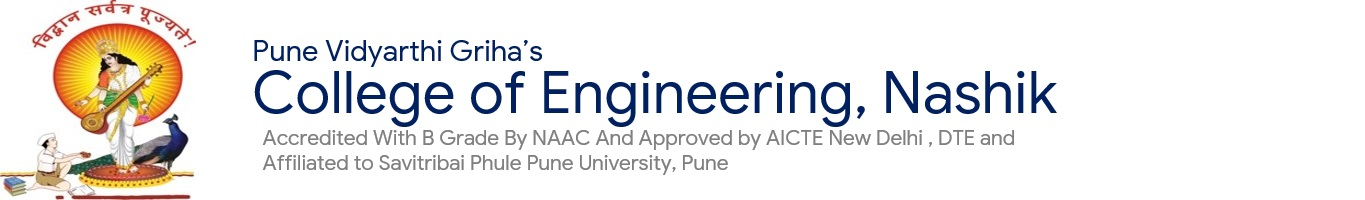
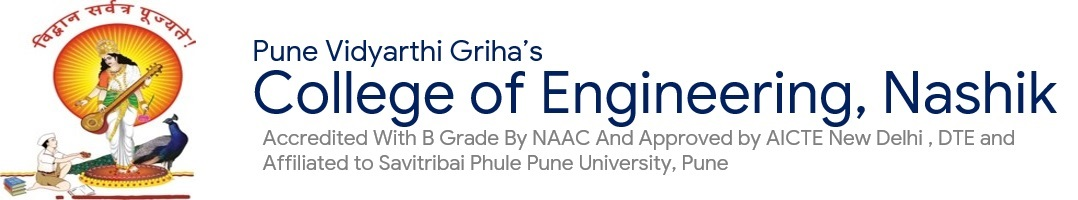
Fixed: Navigation bar error

Changed region(s): [[0.0, 0.0, 0.9796, 1.0]]

diff --git a/placement.html b/placement.html
@@ -13,30 +13,26 @@
         <script src="js/jquery.js"></script>
         <script src="js/bootstrap.min.js"></script>
 </head>
-<body style="padding-top: 50px;">
+<body>
        
-    <div class="navbar navbar-fixed-top " style="background-color:white">
-        <div class="container">
-            <div class="navbar-header">
-                <button type="button" class="navbar-toggle" data-toggle="collapse" data-target="#myNavbar">
-                    <span class="icon-bar"></span>
-                    <span class="icon-bar"></span>
-                    <span class="icon-bar"></span>                        
-                </button>
-                
-                <a class="navbar-brand" href="index.html"><img class="collegelogo"src="collegeheader.jpg" width="400" height="30"></a>
-            </div>
-            <div class="collapse navbar-collapse" id="myNavbar">
-                <ul class="nav navbar-nav navbar-right">
-                    <li><a href="index.html"><span class="glyphicon glyphicon-home"></span> Home</a></li>
-                    <li><a href="aboutus.html"><span class="glyphicon glyphicon-user"></span> About us</a></li>
-                    <li><a href="gallery.html"><span class="glyphicon glyphicon-picture"></span> Gallery</a></li>
-                    <li><a href="placement.html"><span class="glyphicon glyphicon-list-alt"></span> Placement</a></li>
-                    <li><a href="login.html"><span class="glyphicon glyphicon-log-in"></span> Login</a></li>
-                </ul>
-            </div>
-        </div>
-        </div>
+  <br>
+  <div class="navbar navbar-fixed-top " style="background-color:white ">
+          <div class="navbar-header">
+              <a class="navbar-brand" href="index.html"><img class="collegelogo"src="collegeheader.jpg" width="300" height="30"></a>
+              <button type="button" style="color:#1A237E ; border-color: #1A237E ;height:fit-content; "class="navbar-toggle glyphicon glyphicon-menu-hamburger" data-toggle="collapse" data-target="#myNavbar">                    
+              </button> 
+          </div>
+          <div class="collapse navbar-collapse" id="myNavbar">
+              <ul class="nav navbar-nav navbar-right">
+                  <li><a href="index.html"><span class="glyphicon glyphicon-home"></span> Home</a></li>
+                  <li><a href="aboutus.html"><span class="glyphicon glyphicon-user"></span> About us</a></li>
+                  <li><a href="gallery.html"><span class="glyphicon glyphicon-picture"></span> Gallery</a></li>
+                  <li><a href="placement.html"><span class="glyphicon glyphicon-list-alt"></span> Placement</a></li>
+                  <li><a href="login.html"><span class="glyphicon glyphicon-log-in"></span> Login</a></li>
+              </ul>
+          </div>
+      </div>
+     
 
    
    <!---------------------------------Body Goes here------------------------>

diff --git a/login.html b/login.html
@@ -11,28 +11,24 @@
     </head>
 
     <body>
-        <div class="navbar  navbar-fixed-top">
-            <div class="container">
-                <div class="navbar-header">
-                    <button type="button" class="navbar-toggle" data-toggle="collapse" data-target="#myNavbar">
-                        <span class="icon-bar"></span>
-                        <span class="icon-bar"></span>
-                        <span class="icon-bar"></span>                        
-                    </button>
-                    
-                    <a class="navbar-brand" href="index.html"><img src="collegeheader.jpg" width="400" height="40"></a>
-                </div>
-                <div class="collapse navbar-collapse" id="myNavbar">
-                    <ul class="nav navbar-nav navbar-right">
-                        <li><a href="index.html"><span class="glyphicon glyphicon-home"></span> Home</a></li>
-                        <li><a href="aboutus.html"><span class="glyphicon glyphicon-user"></span> About us</a></li>
-                        <li><a href="gallery.html"><span class="glyphicon glyphicon-picture"></span> Gallery</a></li>
-                        <li><a href="placement.html"><span class="glyphicon glyphicon-list-alt"></span> Placement</a></li>
-                        <li><a href="login.html"><span class="glyphicon glyphicon-log-in"></span> Login</a></li>
-                    </ul>
-                </div>
+        <br>
+    <div class="navbar navbar-fixed-top " style="background-color:white ">
+            <div class="navbar-header">
+                <a class="navbar-brand" href="index.html"><img class="collegelogo"src="collegeheader.jpg" width="300" height="30"></a>
+                <button type="button" style="color:#1A237E ; border-color: #1A237E ;height:fit-content; "class="navbar-toggle glyphicon glyphicon-menu-hamburger" data-toggle="collapse" data-target="#myNavbar">                    
+                </button> 
             </div>
+            <div class="collapse navbar-collapse" id="myNavbar">
+                <ul class="nav navbar-nav navbar-right">
+                    <li><a href="index.html"><span class="glyphicon glyphicon-home"></span> Home</a></li>
+                    <li><a href="aboutus.html"><span class="glyphicon glyphicon-user"></span> About us</a></li>
+                    <li><a href="gallery.html"><span class="glyphicon glyphicon-picture"></span> Gallery</a></li>
+                    <li><a href="placement.html"><span class="glyphicon glyphicon-list-alt"></span> Placement</a></li>
+                    <li><a href="login.html"><span class="glyphicon glyphicon-log-in"></span> Login</a></li>
+                </ul>
             </div>
+        </div>
+       
             <br><br><br><br>
         <div id="content">
             <div class="container-fluid decor_bg" id="login-panel">

diff --git a/signup.html b/signup.html
@@ -32,18 +32,23 @@
             </div>
             </div>
             <br><br>
+            
         <div class="container-fluid decor_bg" id="content">
             <div class="row">
                 <div class="container">
                     <div class="col-lg-4 col-lg-offset-4 col-md-6 col-md-offset-3">
-                        <h2>SIGN UP</h2>
+                        <div class="syllabus">
+                            <section class="banner_content">
+                             <center><div class="button_submit"><h2 class="he">SIGN UP</h2></div></center>
+                             <br>
+                        
                         <form  action="signup_script.html" method="POST">
                             <div class="form-group">
                                 <input class="form-control" placeholder="Name" name="name"  required>
                             </div>
 
                             <div class="form-group">Class:
-                                <select id="cla" name="Class">
+                                <select id="cla" name="Class" placeholder="Class">
                                     <option value="volvo">S.E.</option>
                                     <option value="saab">T.E.</option>
                                     <option value="fiat">B.E.</option>                                
@@ -70,11 +75,15 @@
                             <div class="form-group">
                                 <input  type="text" class="form-control"  placeholder="Address" name="address" required>
                             </div>
-                            <button type="submit" name="submit" class="btn">Submit</button>
+                            <br>
+                           <center><button type="submit" name="submit" class="btn">Submit</button></center> 
                         </form>
                     </div>
                 </div>
             </div>
+        </div>
+        
+        </section>
         </div>
         <footer>
             <div class="container">

diff --git a/aboutus.html b/aboutus.html
@@ -13,18 +13,13 @@
         <script src="js/jquery.js"></script>
         <script src="js/bootstrap.min.js"></script>
 </head>
-<body style="padding-top: 50px;">
-       
-    <div class="navbar navbar-fixed-top " style="background-color:white">
-        <div class="container">
+<body>
+<br>
+    <div class="navbar navbar-fixed-top " style="background-color:white ">
             <div class="navbar-header">
-                <button type="button" class="navbar-toggle" data-toggle="collapse" data-target="#myNavbar">
-                    <span class="icon-bar"></span>
-                    <span class="icon-bar"></span>
-                    <span class="icon-bar"></span>                        
-                </button>
-                
-                <a class="navbar-brand" href="index.html"><img class="collegelogo"src="collegeheader.jpg" width="400" height="30"></a>
+                <a class="navbar-brand" href="index.html"><img class="collegelogo"src="collegeheader.jpg" width="300" height="30"></a>
+                <button type="button" style="color:#1A237E ; border-color: #1A237E ;height:fit-content; "class="navbar-toggle glyphicon glyphicon-menu-hamburger" data-toggle="collapse" data-target="#myNavbar">                    
+                </button> 
             </div>
             <div class="collapse navbar-collapse" id="myNavbar">
                 <ul class="nav navbar-nav navbar-right">
@@ -36,7 +31,7 @@
                 </ul>
             </div>
         </div>
-        </div><br><br><br><br>
+       <br><br><br><br>
 
  
    <!---------------------------------Body Goes here------------------------>

diff --git a/lectures.html b/lectures.html
@@ -13,18 +13,14 @@
         <script src="js/jquery.js"></script>
         <script src="js/bootstrap.min.js"></script>
 </head>
-<body style="padding-top: 50px;">
+<body>
        
-    <div class="navbar navbar-fixed-top " style="background-color:white">
-        <div class="container">
+    <br>
+    <div class="navbar navbar-fixed-top " style="background-color:white ">
             <div class="navbar-header">
-                <button type="button" class="navbar-toggle" data-toggle="collapse" data-target="#myNavbar">
-                    <span class="icon-bar"></span>
-                    <span class="icon-bar"></span>
-                    <span class="icon-bar"></span>                        
-                </button>
-                
-                <a class="navbar-brand" href="index.html"><img class="collegelogo"src="collegeheader.jpg" width="400" height="30"></a>
+                <a class="navbar-brand" href="index.html"><img class="collegelogo"src="collegeheader.jpg" width="300" height="30"></a>
+                <button type="button" style="color:#1A237E ; border-color: #1A237E ;height:fit-content; "class="navbar-toggle glyphicon glyphicon-menu-hamburger" data-toggle="collapse" data-target="#myNavbar">                    
+                </button> 
             </div>
             <div class="collapse navbar-collapse" id="myNavbar">
                 <ul class="nav navbar-nav navbar-right">
@@ -36,8 +32,7 @@
                 </ul>
             </div>
         </div>
-        </div>
-
+       
    
  
    <!---------------------------------Body Goes here------------------------>

diff --git a/index.html b/index.html
@@ -13,18 +13,13 @@
         <script src="js/jquery.js"></script>
         <script src="js/bootstrap.min.js"></script>
 </head>
-<body style="padding-top: 50px;">
-       
-    <div class="navbar navbar-fixed-top " style="background-color:white">
-        <div class="container">
+<body>
+ <br>
+    <div class="navbar navbar-fixed-top " style="background-color:white ">
             <div class="navbar-header">
-                <button type="button" class="navbar-toggle" data-toggle="collapse" data-target="#myNavbar">
-                    <span class="icon-bar"></span>
-                    <span class="icon-bar"></span>
-                    <span class="icon-bar"></span>                        
-                </button>
-                
-                <a class="navbar-brand" href="index.html"><img class="collegelogo"src="collegeheader.jpg" width="400" height="30"></a>
+                <a class="navbar-brand" href="index.html"><img class="collegelogo"src="collegeheader.jpg" width="300" height="30"></a>
+                <button type="button" style="color:#1A237E ; border-color: #1A237E ;height:fit-content; "class="navbar-toggle glyphicon glyphicon-menu-hamburger" data-toggle="collapse" data-target="#myNavbar">                    
+                </button> 
             </div>
             <div class="collapse navbar-collapse" id="myNavbar">
                 <ul class="nav navbar-nav navbar-right">
@@ -36,7 +31,7 @@
                 </ul>
             </div>
         </div>
-        </div>
+       
 
    
     <div id="content">

diff --git a/dashboard.html b/dashboard.html
@@ -14,17 +14,12 @@
         <script src="js/bootstrap.min.js"></script>
 </head>
 <body style="padding-top: 50px;">
-       
-    <div class="navbar navbar-fixed-top " style="background-color:white">
-        <div class="container">
+    <br>
+    <div class="navbar navbar-fixed-top " style="background-color:white ">
             <div class="navbar-header">
-                <button type="button" class="navbar-toggle" data-toggle="collapse" data-target="#myNavbar">
-                    <span class="icon-bar"></span>
-                    <span class="icon-bar"></span>
-                    <span class="icon-bar"></span>                        
-                </button>
-                
-                <a class="navbar-brand" href="index.html"><img class="collegelogo"src="collegeheader.jpg" width="400" height="30"></a>
+                <a class="navbar-brand" href="index.html"><img class="collegelogo"src="collegeheader.jpg" width="300" height="30"></a>
+                <button type="button" style="color:#1A237E ; border-color: #1A237E ;height:fit-content; "class="navbar-toggle glyphicon glyphicon-menu-hamburger" data-toggle="collapse" data-target="#myNavbar">                    
+                </button> 
             </div>
             <div class="collapse navbar-collapse" id="myNavbar">
                 <ul class="nav navbar-nav navbar-right">
@@ -36,7 +31,7 @@
                 </ul>
             </div>
         </div>
-        </div>
+       
         <br><br>
 
    
